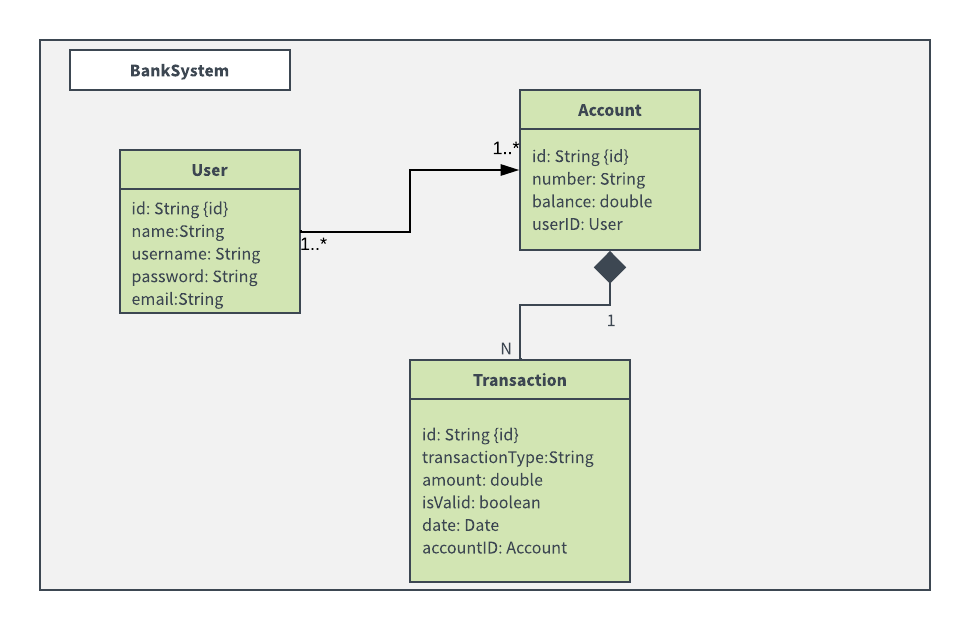
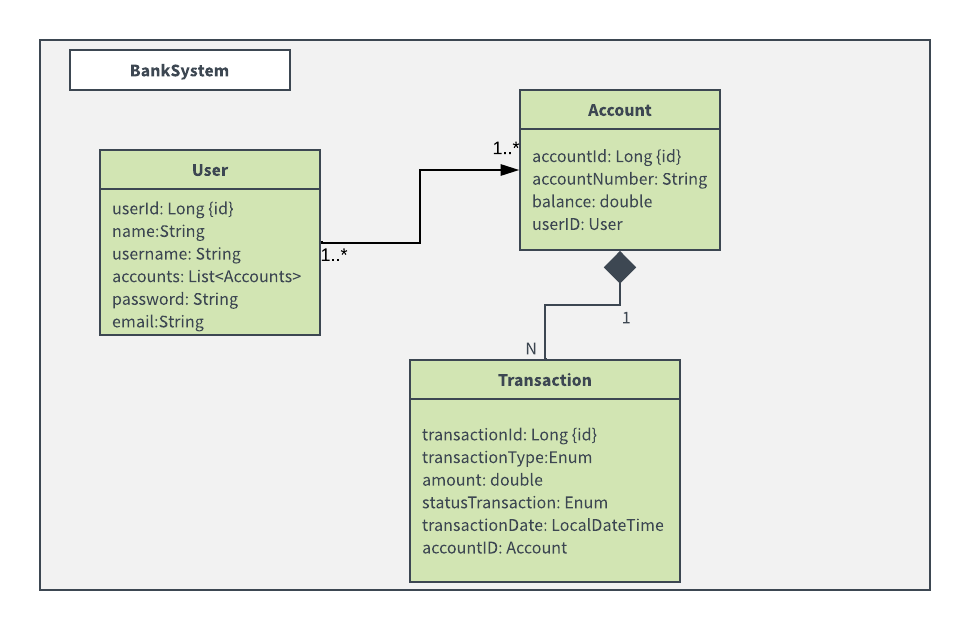
Implementación CRUD de las transacciones y cambios necesarios para su funcionamiento, adaptación de los cambios a los diagramas UML y ER

diff --git a/src/main/java/com/training/bank_system/service/TransactionServiceImpl.java b/src/main/java/com/training/bank_system/service/TransactionServiceImpl.java
@@ -1,0 +1,68 @@
+package com.training.bank_system.service;
+
+import com.training.bank_system.DTO.TransactionRequestDTO;
+import com.training.bank_system.modelos.Account;
+import com.training.bank_system.modelos.StatusTransaction;
+import com.training.bank_system.modelos.Transaction;
+import com.training.bank_system.modelos.TransactionType;
+import com.training.bank_system.repositorio.AccountRepository;
+import com.training.bank_system.repositorio.TransactionRepository;
+import lombok.AllArgsConstructor;
+import org.springframework.beans.factory.annotation.Autowired;
+import org.springframework.stereotype.Service;
+
+import java.util.List;
+import java.util.Optional;
+
+@Service
+@AllArgsConstructor
+public class TransactionServiceImpl implements TransactionService{
+
+    @Autowired
+    private final AccountRepository accountRepository;
+    private final TransactionRepository transactionRepository;
+
+    @Override
+    public Transaction saveTransaction(TransactionRequestDTO transactionDTO) {
+
+        Account account = accountRepository.findById(transactionDTO.getAccountId())
+                .orElseThrow(() -> new RuntimeException("Cuenta no encontrada"));
+        Transaction transaction = new Transaction();
+        transaction.setTransactionType(transactionDTO.getTransactionType());
+        transaction.setAccount(account);
+        transaction.setAmount(transactionDTO.getAmount());
+        transaction.setAccount(account);
+
+        if(transactionDTO.getTransactionType() == TransactionType.RETIRO){
+
+            if(account.getBalance() < transactionDTO.getAmount()){
+                transaction.setStatusTransaction(StatusTransaction.DECLINADO);
+                accountRepository.save(account);
+                return transactionRepository.save(transaction);
+            } else {
+                account.setBalance(account.getBalance()- transactionDTO.getAmount());
+            }
+        } else {
+            account.setBalance(account.getBalance() + transactionDTO.getAmount());
+        }
+
+        transaction.setStatusTransaction(StatusTransaction.EXITOSO);
+        accountRepository.save(account);
+        return transactionRepository.save(transaction);
+    }
+
+    @Override
+    public Optional<Transaction> getTransaction(Long transactionId) {
+        return transactionRepository.findById(transactionId);
+    }
+
+    @Override
+    public List<Transaction> getAllTransactions() {
+        return transactionRepository.findAll();
+    }
+
+    @Override
+    public List<Transaction> getAllTransactionsByAccount(Long accountId) {
+        return transactionRepository.findByAccount(accountId);
+    }
+}

diff --git a/src/main/java/com/training/bank_system/controller/TransactionController.java b/src/main/java/com/training/bank_system/controller/TransactionController.java
@@ -1,0 +1,45 @@
+package com.training.bank_system.controller;
+
+
+import com.training.bank_system.DTO.TransactionRequestDTO;
+import com.training.bank_system.modelos.Transaction;
+import com.training.bank_system.service.TransactionService;
+import lombok.RequiredArgsConstructor;
+import org.springframework.beans.factory.annotation.Autowired;
+import org.springframework.http.HttpStatus;
+import org.springframework.http.ResponseEntity;
+import org.springframework.web.bind.annotation.*;
+
+import java.util.List;
+
+@RestController
+@RequestMapping("/transactions")
+@RequiredArgsConstructor
+public class TransactionController {
+
+    @Autowired
+    private final TransactionService transactionService;
+
+    @PostMapping
+    public ResponseEntity saveTransaction(@RequestBody TransactionRequestDTO requestDTO){
+        Transaction transaction = transactionService.saveTransaction(requestDTO);
+        return new ResponseEntity(transaction, HttpStatus.CREATED);
+    }
+
+    @GetMapping("/{id}")
+    public ResponseEntity getTransaction(@PathVariable("id") Long idTransaction){
+        return new ResponseEntity<>(transactionService.getTransaction(idTransaction), HttpStatus.OK);
+    }
+
+    @GetMapping("/")
+    public ResponseEntity getAllTransactions(){
+        return new ResponseEntity(transactionService.getAllTransactions(), HttpStatus.OK);
+    }
+
+    @GetMapping("/by-account")
+    public ResponseEntity<List<Transaction>> getTransactionsByAccount(@RequestParam Long accountId){
+        List<Transaction> transactions = transactionService.getAllTransactionsByAccount(accountId);
+        return new ResponseEntity<>(transactions, HttpStatus.OK);
+    }
+
+}

diff --git a/src/main/java/com/training/bank_system/repositorio/TransactionRepository.java b/src/main/java/com/training/bank_system/repositorio/TransactionRepository.java
@@ -1,0 +1,16 @@
+package com.training.bank_system.repositorio;
+
+import com.training.bank_system.modelos.Transaction;
+import org.springframework.data.jpa.repository.JpaRepository;
+import org.springframework.data.jpa.repository.Query;
+import org.springframework.data.repository.query.Param;
+import org.springframework.stereotype.Repository;
+
+import java.util.List;
+
+@Repository
+public interface TransactionRepository extends JpaRepository<Transaction, Long> {
+
+    @Query("SELECT t FROM Transaction t WHERE t.account.accountId = :accountId")
+    List<Transaction> findByAccount(@Param("accountId") Long accountId);
+}

diff --git a/src/main/java/com/training/bank_system/controller/AccountController.java b/src/main/java/com/training/bank_system/controller/AccountController.java
@@ -26,6 +26,11 @@ public class AccountController {
         return new ResponseEntity<>(accountService.getAccount(idAccount), HttpStatus.OK);
     }
 
+    @GetMapping("/")
+    public ResponseEntity getAllAccounts(){
+        return new ResponseEntity(accountService.getAllAccounts(), HttpStatus.OK);
+    }
+
     @DeleteMapping("/{id}")
     public ResponseEntity deleteAccount(@PathVariable("id") Long idAccount){
         boolean response = accountService.deleteAccount(idAccount);
@@ -35,5 +40,4 @@ public class AccountController {
             return new ResponseEntity<>(HttpStatus.NOT_FOUND);
         }
     }
-
 }

diff --git a/src/main/java/com/training/bank_system/DTO/TransactionRequestDTO.java b/src/main/java/com/training/bank_system/DTO/TransactionRequestDTO.java
@@ -1,0 +1,22 @@
+package com.training.bank_system.DTO;
+
+import com.training.bank_system.modelos.StatusTransaction;
+import com.training.bank_system.modelos.Transaction;
+import com.training.bank_system.modelos.TransactionType;
+import lombok.AllArgsConstructor;
+import lombok.Data;
+import lombok.NoArgsConstructor;
+import org.springframework.cglib.core.Local;
+
+import java.time.LocalDateTime;
+
+@AllArgsConstructor
+@NoArgsConstructor
+@Data
+public class TransactionRequestDTO {
+
+    private Long accountId;
+    private TransactionType transactionType;
+    private double amount;
+
+}

diff --git a/src/main/java/com/training/bank_system/service/TransactionService.java b/src/main/java/com/training/bank_system/service/TransactionService.java
@@ -1,0 +1,19 @@
+package com.training.bank_system.service;
+
+import com.training.bank_system.DTO.TransactionRequestDTO;
+import com.training.bank_system.modelos.Transaction;
+
+import java.util.List;
+import java.util.Optional;
+
+public interface TransactionService {
+
+    Transaction saveTransaction(TransactionRequestDTO transactionDTO);
+
+    Optional<Transaction> getTransaction(Long transactionId);
+
+    List<Transaction> getAllTransactions();
+
+    List<Transaction> getAllTransactionsByAccount(Long accountId);
+
+}

diff --git a/src/main/java/com/training/bank_system/modelos/Transaction.java b/src/main/java/com/training/bank_system/modelos/Transaction.java
@@ -34,5 +34,14 @@ public class Transaction {
     @JoinColumn(name = "account_id", nullable = false)
     private Account account;
 
+    @Enumerated(EnumType.STRING)
+    @Column(nullable = false)
+    private StatusTransaction statusTransaction;
+
+    @PrePersist
+    private void setTransactionDate() {
+        this.transactionDate = LocalDateTime.now();
+    }
+
 }
 

diff --git a/src/main/java/com/training/bank_system/service/AccountService.java b/src/main/java/com/training/bank_system/service/AccountService.java
@@ -10,8 +10,6 @@ import java.util.Optional;
 
 public interface AccountService {
 
-
-
     Account saveAccount(AccountRequestDTO accountDTO);
 
     Optional<Account> getAccount(Long accountId);

diff --git a/src/main/java/com/training/bank_system/modelos/StatusTransaction.java b/src/main/java/com/training/bank_system/modelos/StatusTransaction.java
@@ -1,0 +1,6 @@
+package com.training.bank_system.modelos;
+
+public enum StatusTransaction {
+    EXITOSO,
+    DECLINADO
+}

diff --git a/README.md b/README.md
@@ -23,6 +23,7 @@ Este repositorio consiste inicialmente en guardar los distintos cambios a lo lar
     - **Relaciones:** 
       - **OneToMany:** User -> Account
       - **ManyToOne:** Account -> User
+      - **OneToMany:** Account -> Transaction
 
 4. Implementación inicial de la arquitectura MVC con las 3 capas de repository, service y controller, además de la generación 
 de las primeras funciones CRUD para los usuarios:
@@ -33,7 +34,21 @@ de las primeras funciones CRUD para los usuarios:
     - Listar todos los usuarios
 
 5. - Implementación de la lógica para gestión de cuentas bancarias creadas en función de un usuario en específico,
-se implementa patrón DTO para que la solicitud de creación de la cuenta bancaria sea mucho más escalable y segura.
+      se implementa patrón DTO para que la solicitud de creación de la cuenta bancaria sea mucho más escalable y segura.
+      - Crear cuenta
+      - Obtener Cuenta
+      - Listar todas las cuentas
+      - Editar cuenta
+      - Eliminar cuenta
    - Se agrega la anotación @JsonIgnore en la entidad Account para que no se genere un loop a la hora de listar los usuarios y las cuentas.
    - Se agrega el enum TransactionType para delimitar los dos tipos de transacciones que tendremos
    - Se le da un mejor orden a las entidades ya creadas, se les agrega propiedades a ciertos campos para no aceptar nulos y que sean campos únicos.
+
+6. - Implementación de la lógica CRUD para las transacciones de las cuentas en función de una cuenta específica, se usa el patrón DTO para manejar la solicitud
+   de creación.
+     - Crear transacción
+     - Obtener transacción
+     - Listar todas las transacciones
+     - Listar transacción por accountId
+   - Se crea un Enum para manejar los estados de la transacción: EXITOSO o DECLINADO
+   - Se actualizan los diagramas UML y ER para incluir los cambios realizados
